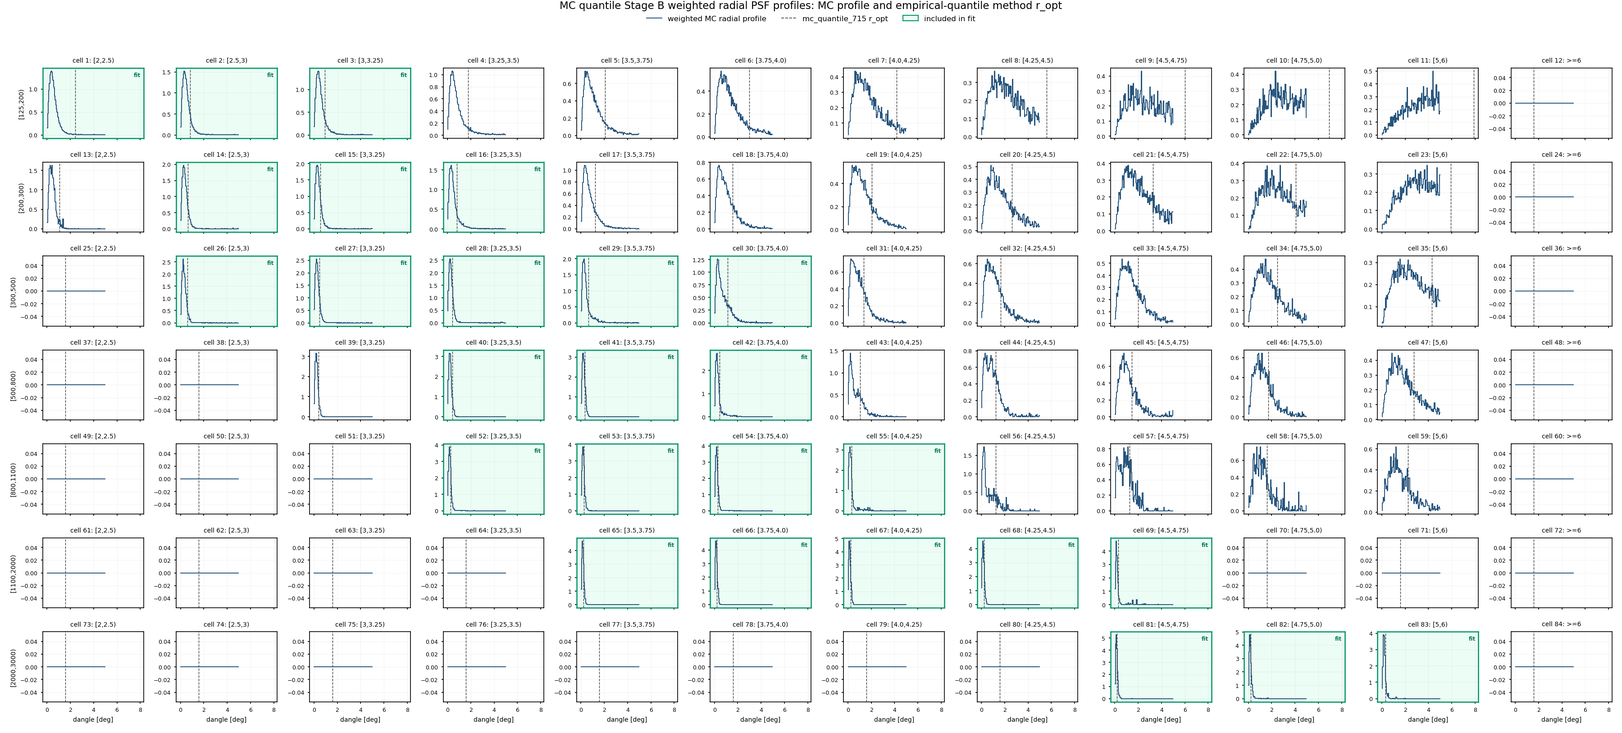
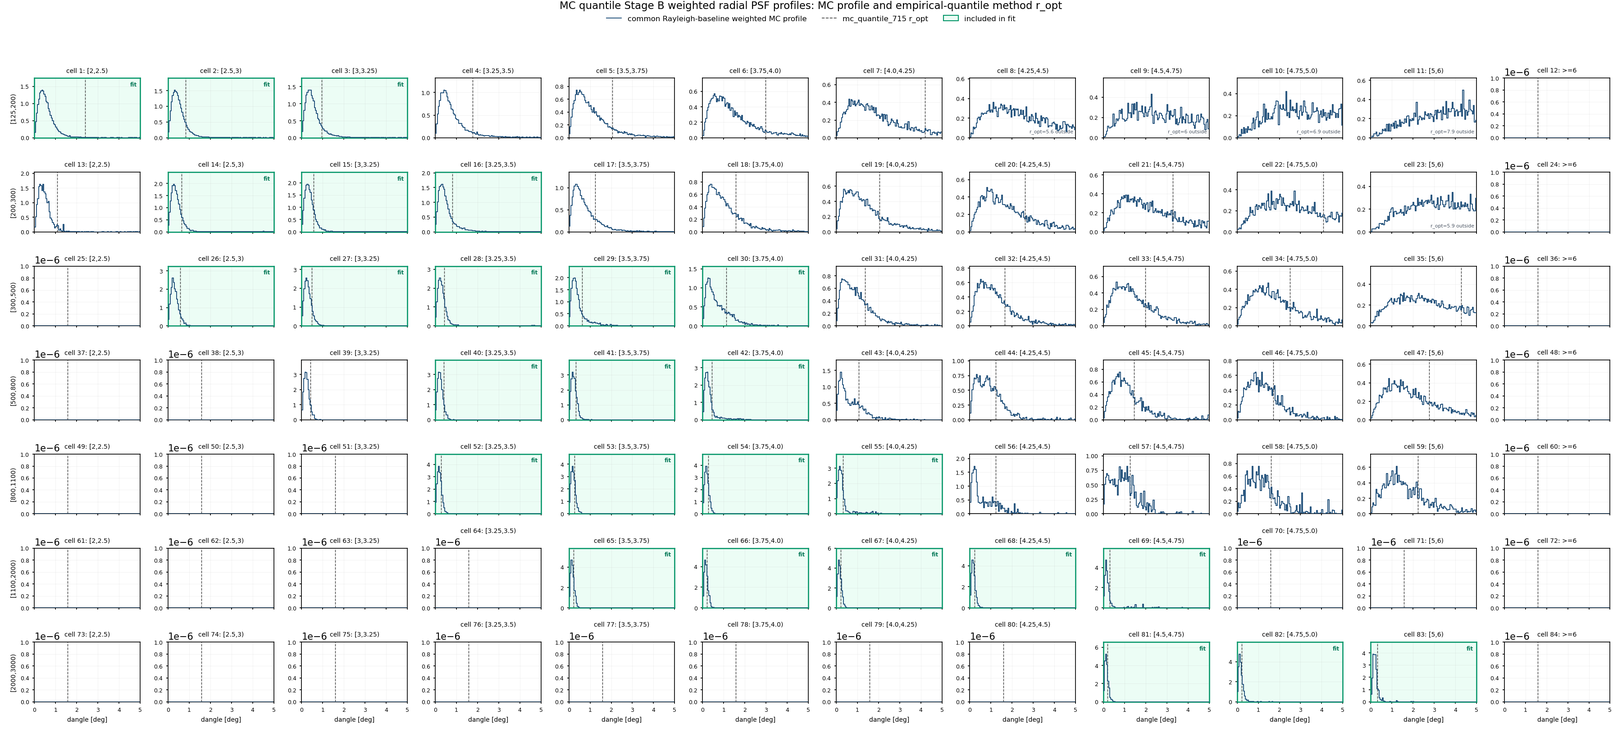
report(apply): align v5 PSF profile grid scales

diff --git a/apply/report/crab_sed_v5_psf_comparison_report.html b/apply/report/crab_sed_v5_psf_comparison_report.html
@@ -360,13 +360,13 @@
   <figure><img src="assets/v5-psf-comparison/v5_psf_radius_shape_scatter.png" alt="PSF radius versus shape scale"><figcaption><strong>PSF radius versus shape scale</strong> The two-1D branch uses sigma_eff = sqrt((sigma_x^2 + sigma_y^2)/2).</figcaption></figure>
 
   <h2>Weighted PSF Profiles</h2>
-  <p>The overlay below uses the Stage B <code>profile_density</code> arrays for the drop4 fit cells. Rayleigh, two-1D Gaussian, MC-quantile, and double-Rayleigh profiles are Crab-theta-weighted MC profiles; observed_data is the pedestal-subtracted observed excess profile for accepted data-PSF cells and the documented fallback profile otherwise. Each overlay profile is normalized by its own peak for shape comparison; dashed vertical lines mark each branch's <code>r_opt</code>. The double-Rayleigh per-method grid also draws the fitted mixture curve.</p>
+  <p>The overlay below uses the Stage B <code>profile_density</code> arrays for the drop4 fit cells. In the five per-method grids, the blue steps are always the exact Rayleigh-baseline Crab-theta-weighted MC profile. Every matching cell uses the same 0-5 deg x range and the same Rayleigh-reference y scale, and the blue steps are drawn above the model curves so they remain visually identical. The observed_data grid adds accepted pedestal-subtracted observed excess profiles in teal; dashed vertical lines mark each branch's <code>r_opt</code>, with out-of-range radii annotated instead of expanding the axes.</p>
   <figure><img src="assets/v5-psf-comparison/v5_psf_weighted_profile_overlay.png" alt="Weighted PSF profile overlay"><figcaption><strong>Weighted PSF profile overlay</strong> Each small panel is one drop4 fit cell, with 5 PSF aperture branches overlaid.</figcaption></figure>
-  <figure><img src="assets/v5-psf-comparison/v5_psf_rayleigh_baseline_weighted_profiles_fit_shaded.png" alt="Rayleigh baseline fit-cell shaded weighted PSF profile grid"><figcaption><strong>Rayleigh baseline fit-cell shaded weighted PSF profile grid</strong> Blue steps show the Stage B Crab-theta-weighted MC radial profile. The orange curve is the Rayleigh radial PDF fit/reference from the same cell&#x27;s Rayleigh sigma. The grey dashed line is Rayleigh r_opt = 1.58 sigma. Green shaded panels are cells included in the final SED fit.</figcaption></figure>
-<figure><img src="assets/v5-psf-comparison/v5_psf_two_1d_gaussian_weighted_profiles_fit_shaded.png" alt="Two 1D Gaussian fit-cell shaded weighted PSF profile grid"><figcaption><strong>Two 1D Gaussian fit-cell shaded weighted PSF profile grid</strong> Blue steps show the Stage B Crab-theta-weighted MC radial profile. The purple curve is the radial PDF induced by the fitted independent x/y Gaussian model; this is not Rayleigh except in the circular sigma_x = sigma_y limit. The grey dashed line is the two-1D circular containment radius solved from the fitted x/y Gaussian sigmas. Green shaded panels are cells included in the final SED fit.</figcaption></figure>
-<figure><img src="assets/v5-psf-comparison/v5_psf_mc_quantile_715_weighted_profiles_fit_shaded.png" alt="MC quantile fit-cell shaded weighted PSF profile grid"><figcaption><strong>MC quantile fit-cell shaded weighted PSF profile grid</strong> Blue steps show the Stage B Crab-theta-weighted MC radial profile. No parametric fit curve is drawn because this branch defines the aperture directly from the weighted empirical quantile. The grey dashed line is the empirical Crab-theta-reweighted mc_dangle quantile radius. Green shaded panels are cells included in the final SED fit.</figcaption></figure>
-<figure><img src="assets/v5-psf-comparison/v5_psf_observed_data_weighted_profiles_fit_shaded.png" alt="Observed data fit-cell shaded weighted PSF profile grid"><figcaption><strong>Observed data fit-cell shaded weighted PSF profile grid</strong> Blue steps show the pedestal-subtracted observed Crab excess radial profile when the cell passes the data-PSF quality gates; fallback or psfborrow cells show the documented fallback display profile. The orange curve is the Rayleigh radial PDF reference from the same cell&#x27;s Rayleigh sigma; it is shown only as a comparison curve, not as the fit used to define the observed-data aperture. The grey dashed line is the observed-Crab radial-profile aperture after annnorm-background and flat-pedestal subtraction, or the documented fallback radius when the observed profile fails quality gates. Green shaded panels are cells included in the final SED fit.</figcaption></figure>
-<figure><img src="assets/v5-psf-comparison/v5_psf_double_rayleigh_mixture_weighted_profiles_fit_shaded.png" alt="Double Rayleigh mixture fit-cell shaded weighted PSF profile grid"><figcaption><strong>Double Rayleigh mixture fit-cell shaded weighted PSF profile grid</strong> Blue steps show the Stage B Crab-theta-weighted MC radial profile. The purple curve is the fitted two-component Rayleigh radial PDF; the grey dashed line is r_opt from the fitted mixture CDF at the Rayleigh-contract target containment. Fallback or psfborrow cells are listed in the diagnostics tables. Green shaded panels are cells included in the final SED fit.</figcaption></figure>
+  <figure><img src="assets/v5-psf-comparison/v5_psf_rayleigh_baseline_weighted_profiles_fit_shaded.png" alt="Rayleigh baseline fit-cell shaded weighted PSF profile grid"><figcaption><strong>Rayleigh baseline fit-cell shaded weighted PSF profile grid</strong> Blue steps are the same Rayleigh-baseline Stage B Crab-theta-weighted MC radial profile in all five grids. Each cell uses the same Rayleigh-baseline 0-5 deg x range and Rayleigh-reference y scale, so model overlays cannot rescale the MC profile. The orange curve is the Rayleigh radial PDF fit/reference from the same cell&#x27;s Rayleigh sigma. The grey dashed line is Rayleigh r_opt = 1.58 sigma. Green shaded panels are cells included in the final SED fit.</figcaption></figure>
+<figure><img src="assets/v5-psf-comparison/v5_psf_two_1d_gaussian_weighted_profiles_fit_shaded.png" alt="Two 1D Gaussian fit-cell shaded weighted PSF profile grid"><figcaption><strong>Two 1D Gaussian fit-cell shaded weighted PSF profile grid</strong> Blue steps are the same Rayleigh-baseline Stage B Crab-theta-weighted MC radial profile in all five grids. Each cell uses the same Rayleigh-baseline 0-5 deg x range and Rayleigh-reference y scale, so model overlays cannot rescale the MC profile. The purple curve is the radial PDF induced by the fitted independent x/y Gaussian model; this is not Rayleigh except in the circular sigma_x = sigma_y limit. The grey dashed line is the two-1D circular containment radius solved from the fitted x/y Gaussian sigmas. Green shaded panels are cells included in the final SED fit.</figcaption></figure>
+<figure><img src="assets/v5-psf-comparison/v5_psf_mc_quantile_715_weighted_profiles_fit_shaded.png" alt="MC quantile fit-cell shaded weighted PSF profile grid"><figcaption><strong>MC quantile fit-cell shaded weighted PSF profile grid</strong> Blue steps are the same Rayleigh-baseline Stage B Crab-theta-weighted MC radial profile in all five grids. Each cell uses the same Rayleigh-baseline 0-5 deg x range and Rayleigh-reference y scale, so model overlays cannot rescale the MC profile. No parametric fit curve is drawn because this branch defines the aperture directly from the weighted empirical quantile. The grey dashed line is the empirical Crab-theta-reweighted mc_dangle quantile radius. Green shaded panels are cells included in the final SED fit.</figcaption></figure>
+<figure><img src="assets/v5-psf-comparison/v5_psf_observed_data_weighted_profiles_fit_shaded.png" alt="Observed data fit-cell shaded weighted PSF profile grid"><figcaption><strong>Observed data fit-cell shaded weighted PSF profile grid</strong> Blue steps are the same Rayleigh-baseline Stage B Crab-theta-weighted MC radial profile in all five grids. Each cell uses the same Rayleigh-baseline 0-5 deg x range and Rayleigh-reference y scale, so model overlays cannot rescale the MC profile. Teal steps additionally show the pedestal-subtracted observed Crab excess radial profile for cells that pass the data-PSF quality gates; they are omitted for fallback cells. The orange curve is the Rayleigh radial PDF reference from the same cell&#x27;s Rayleigh sigma; it is shown only as a comparison curve, not as the fit used to define the observed-data aperture. The grey dashed line is the observed-Crab radial-profile aperture after annnorm-background and flat-pedestal subtraction, or the documented fallback radius when the observed profile fails quality gates. Green shaded panels are cells included in the final SED fit.</figcaption></figure>
+<figure><img src="assets/v5-psf-comparison/v5_psf_double_rayleigh_mixture_weighted_profiles_fit_shaded.png" alt="Double Rayleigh mixture fit-cell shaded weighted PSF profile grid"><figcaption><strong>Double Rayleigh mixture fit-cell shaded weighted PSF profile grid</strong> Blue steps are the same Rayleigh-baseline Stage B Crab-theta-weighted MC radial profile in all five grids. Each cell uses the same Rayleigh-baseline 0-5 deg x range and Rayleigh-reference y scale, so model overlays cannot rescale the MC profile. The purple curve is the fitted two-component Rayleigh radial PDF; the grey dashed line is r_opt from the fitted mixture CDF at the Rayleigh-contract target containment. Fallback or psfborrow cells are listed in the diagnostics tables. Green shaded panels are cells included in the final SED fit.</figcaption></figure>
 
   <h2>Stage F Fit And Pulls</h2>
   <table><thead><tr><th>run</th><th>LogPar phi0</th><th>alpha</th><th>beta</th><th>chi2 / ndof</th><th>chi2/ndof</th><th>max abs pull</th><th>PL phi0</th><th>PL gamma</th></tr></thead><tbody><tr><td>v4 aperture baseline</td><td>2.36784e-12</td><td>2.7615</td><td>0.14536</td><td>117.3 / 23</td><td>5.1</td><td>5.538</td><td>2.12073e-12</td><td>2.632</td></tr>

diff --git a/apply/report/build_v5_psf_comparison_report.py b/apply/report/build_v5_psf_comparison_report.py
@@ -740,29 +740,30 @@ def two1d_radial_pdf_deg(
 
 
 def profile_grid_caption(method: str) -> str:
+    common = (
+        "Blue steps are the same Rayleigh-baseline Stage B Crab-theta-weighted MC radial profile in all five grids. "
+        "Each cell uses the same Rayleigh-baseline 0-5 deg x range and Rayleigh-reference y scale, so model overlays cannot rescale the MC profile. "
+    )
     captions = {
         "rayleigh_baseline": (
-            "Blue steps show the Stage B Crab-theta-weighted MC radial profile. "
-            "The orange curve is the Rayleigh radial PDF fit/reference from the same cell's Rayleigh sigma. "
+            common + "The orange curve is the Rayleigh radial PDF fit/reference from the same cell's Rayleigh sigma. "
             "The grey dashed line is Rayleigh r_opt = 1.58 sigma. "
             "Green shaded panels are cells included in the final SED fit."
         ),
         "two_1d_gaussian": (
-            "Blue steps show the Stage B Crab-theta-weighted MC radial profile. "
-            "The purple curve is the radial PDF induced by the fitted independent x/y Gaussian model; "
+            common + "The purple curve is the radial PDF induced by the fitted independent x/y Gaussian model; "
             "this is not Rayleigh except in the circular sigma_x = sigma_y limit. "
             "The grey dashed line is the two-1D circular containment radius solved from the fitted x/y Gaussian sigmas. "
             "Green shaded panels are cells included in the final SED fit."
         ),
         "mc_quantile_715": (
-            "Blue steps show the Stage B Crab-theta-weighted MC radial profile. "
-            "No parametric fit curve is drawn because this branch defines the aperture directly from the weighted empirical quantile. "
+            common + "No parametric fit curve is drawn because this branch defines the aperture directly from the weighted empirical quantile. "
             "The grey dashed line is the empirical Crab-theta-reweighted mc_dangle quantile radius. "
             "Green shaded panels are cells included in the final SED fit."
         ),
         "observed_data": (
-            "Blue steps show the pedestal-subtracted observed Crab excess radial profile when the cell passes the data-PSF quality gates; "
-            "fallback or psfborrow cells show the documented fallback display profile. "
+            common + "Teal steps additionally show the pedestal-subtracted observed Crab excess radial profile for cells that pass the data-PSF quality gates; "
+            "they are omitted for fallback cells. "
             "The orange curve is the Rayleigh radial PDF reference from the same cell's Rayleigh sigma; it is shown only as a comparison curve, "
             "not as the fit used to define the observed-data aperture. "
             "The grey dashed line is the observed-Crab radial-profile aperture after annnorm-background and flat-pedestal subtraction, "
@@ -770,8 +771,7 @@ def profile_grid_caption(method: str) -> str:
             "Green shaded panels are cells included in the final SED fit."
         ),
         "double_rayleigh_mixture": (
-            "Blue steps show the Stage B Crab-theta-weighted MC radial profile. "
-            "The purple curve is the fitted two-component Rayleigh radial PDF; "
+            common + "The purple curve is the fitted two-component Rayleigh radial PDF; "
             "the grey dashed line is r_opt from the fitted mixture CDF at the Rayleigh-contract target containment. "
             "Fallback or psfborrow cells are listed in the diagnostics tables. "
             "Green shaded panels are cells included in the final SED fit."
@@ -780,12 +780,21 @@ def profile_grid_caption(method: str) -> str:
     return captions[method]
 
 
-def plot_fit_shaded_psf_profile_grid(method: str, payload: Dict[str, object], path: Path) -> bool:
+def plot_fit_shaded_psf_profile_grid(
+    method: str,
+    payload: Dict[str, object],
+    path: Path,
+    *,
+    rayleigh_reference: Optional[Dict[str, object]] = None,
+) -> bool:
     psf = payload.get("psf_npz")
     if not isinstance(psf, dict):
         return False
     required = {"cell_id", "nhit_bin", "predE_bin", "profile_edges_deg", "profile_density"}
     if any(key not in psf for key in required):
+        return False
+    reference = rayleigh_reference if isinstance(rayleigh_reference, dict) else psf
+    if any(key not in reference for key in required):
         return False
 
     cell_ids = np.asarray(psf["cell_id"], dtype=np.int64)
@@ -802,14 +811,33 @@ def plot_fit_shaded_psf_profile_grid(method: str, payload: Dict[str, object], pa
     double_a = np.asarray(psf.get("double_rayleigh_A", np.full(cell_ids.shape, np.nan)), dtype=np.float64)
     double_s1 = np.asarray(psf.get("double_rayleigh_sigma1_deg", np.full(cell_ids.shape, np.nan)), dtype=np.float64)
     double_s2 = np.asarray(psf.get("double_rayleigh_sigma2_deg", np.full(cell_ids.shape, np.nan)), dtype=np.float64)
+    observed_fallback = np.asarray(psf.get("observed_data_fallback", np.ones(cell_ids.shape, dtype=bool)), dtype=bool)
     if cell_ids.size == 0 or profile_density.size == 0:
+        return False
+
+    reference_cell_ids = np.asarray(reference["cell_id"], dtype=np.int64)
+    reference_edges_deg = np.asarray(reference["profile_edges_deg"], dtype=np.float64)
+    reference_density = np.asarray(reference["profile_density"], dtype=np.float64)
+    reference_sigma_rad = np.asarray(
+        reference.get("sigma_rad", np.full(reference_cell_ids.shape, np.nan)),
+        dtype=np.float64,
+    )
+    if (
+        reference_cell_ids.size == 0
+        or reference_density.size == 0
+        or profile_edges_deg.shape != reference_edges_deg.shape
+        or not np.allclose(profile_edges_deg, reference_edges_deg, rtol=0.0, atol=1.0e-12)
+    ):
         return False
 
     fit_ids = fit_cell_ids(payload)
     ordered_nhit = sorted(set(nhit_bins.tolist()), key=interval_key)
     ordered_pred = sorted(set(pred_bins.tolist()), key=interval_key)
     index_by_key = {(nhit, pred): idx for idx, (nhit, pred) in enumerate(zip(nhit_bins, pred_bins))}
-    centers = 0.5 * (profile_edges_deg[:-1] + profile_edges_deg[1:])
+    reference_index_by_cell = {int(cell_id): idx for idx, cell_id in enumerate(reference_cell_ids)}
+    centers = 0.5 * (reference_edges_deg[:-1] + reference_edges_deg[1:])
+    x_min = float(reference_edges_deg[0])
+    x_max = float(reference_edges_deg[-1])
 
     plt = setup_matplotlib()
     from matplotlib.lines import Line2D
@@ -833,6 +861,10 @@ def plot_fit_shaded_psf_profile_grid(method: str, payload: Dict[str, object], pa
                 continue
 
             cell_id = int(cell_ids[idx])
+            reference_idx = reference_index_by_cell.get(cell_id)
+            if reference_idx is None:
+                ax.set_axis_off()
+                continue
             if cell_id in fit_ids:
                 ax.set_facecolor("#ecfdf5")
                 for spine in ax.spines.values():
@@ -850,17 +882,34 @@ def plot_fit_shaded_psf_profile_grid(method: str, payload: Dict[str, object], pa
                     fontweight="bold",
                 )
 
-            density = np.asarray(profile_density[idx], dtype=np.float64)
-            ax.step(centers, density, where="mid", color="#1f4e79", linewidth=0.9)
+            density = np.asarray(reference_density[reference_idx], dtype=np.float64)
+            method_density = np.asarray(profile_density[idx], dtype=np.float64)
             has_profile = bool(np.isfinite(density).any() and np.nansum(density) > 0.0)
+            rayleigh_curve = np.full(centers.shape, np.nan, dtype=np.float64)
+            if (
+                has_profile
+                and reference_idx < reference_sigma_rad.size
+                and np.isfinite(reference_sigma_rad[reference_idx])
+                and reference_sigma_rad[reference_idx] > 0.0
+            ):
+                rayleigh_curve = rayleigh_pdf_deg(centers, float(reference_sigma_rad[reference_idx]))
+
+            if method == "observed_data" and idx < observed_fallback.size and not observed_fallback[idx]:
+                ax.step(
+                    centers,
+                    method_density,
+                    where="mid",
+                    color="#0f766e",
+                    linewidth=0.9,
+                    alpha=0.9,
+                    zorder=2.5,
+                )
             if (
                 method in {"rayleigh_baseline", "observed_data"}
                 and has_profile
-                and idx < sigma_rad.size
-                and np.isfinite(sigma_rad[idx])
-                and sigma_rad[idx] > 0.0
+                and np.isfinite(rayleigh_curve).any()
             ):
-                ax.plot(centers, rayleigh_pdf_deg(centers, float(sigma_rad[idx])), color="#c9501a", linewidth=0.8, alpha=0.9)
+                ax.plot(centers, rayleigh_curve, color="#c9501a", linewidth=1.0, alpha=0.95, zorder=3)
             if (
                 method == "two_1d_gaussian"
                 and has_profile
@@ -883,8 +932,9 @@ def plot_fit_shaded_psf_profile_grid(method: str, payload: Dict[str, object], pa
                         sigma_y_deg=float(sigma_y_deg[idx]),
                     ),
                     color="#7c3aed",
-                    linewidth=0.8,
+                    linewidth=1.0,
                     alpha=0.95,
+                    zorder=3,
                 )
             if (
                 method == "double_rayleigh_mixture"
@@ -907,11 +957,33 @@ def plot_fit_shaded_psf_profile_grid(method: str, payload: Dict[str, object], pa
                         float(double_s2[idx]),
                     ),
                     color="#7e22ce",
-                    linewidth=0.8,
+                    linewidth=1.0,
                     alpha=0.95,
+                    zorder=3,
                 )
             if idx < r_opt.size and np.isfinite(r_opt[idx]):
-                ax.axvline(float(r_opt[idx]), color="#444444", linewidth=0.7, linestyle="--")
+                radius = float(r_opt[idx])
+                if x_min <= radius <= x_max:
+                    ax.axvline(radius, color="#444444", linewidth=0.7, linestyle="--", zorder=2)
+                else:
+                    ax.text(
+                        0.98,
+                        0.06,
+                        f"r_opt={radius:.2g} outside",
+                        transform=ax.transAxes,
+                        ha="right",
+                        va="bottom",
+                        fontsize=5.2,
+                        color="#4b5563",
+                    )
+            ax.step(centers, density, where="mid", color="#1f4e79", linewidth=0.9, zorder=4)
+
+            reference_peak = max(
+                float(np.nanmax(density)) if np.isfinite(density).any() else 0.0,
+                float(np.nanmax(rayleigh_curve)) if np.isfinite(rayleigh_curve).any() else 0.0,
+            )
+            ax.set_xlim(x_min, x_max)
+            ax.set_ylim(0.0, max(1.0e-6, 1.25 * reference_peak))
             ax.set_title(f"cell {cell_id}: {pred}", fontsize=6.7)
             ax.tick_params(labelsize=6, length=2)
             ax.grid(alpha=0.22, linewidth=0.35)
@@ -920,14 +992,11 @@ def plot_fit_shaded_psf_profile_grid(method: str, payload: Dict[str, object], pa
             if i == len(ordered_nhit) - 1:
                 ax.set_xlabel("dangle [deg]", fontsize=6.7)
 
-    profile_label = (
-        "pedestal-subtracted observed excess profile / fallback profile"
-        if method == "observed_data"
-        else "weighted MC radial profile"
-    )
     handles = [
-        Line2D([0], [0], color="#1f4e79", linewidth=0.9, label=profile_label),
+        Line2D([0], [0], color="#1f4e79", linewidth=0.9, label="common Rayleigh-baseline weighted MC profile"),
     ]
+    if method == "observed_data":
+        handles.append(Line2D([0], [0], color="#0f766e", linewidth=0.9, label="accepted observed excess profile"))
     if method in {"rayleigh_baseline", "observed_data"}:
         rayleigh_label = "Rayleigh radial PDF reference" if method == "observed_data" else "Rayleigh radial PDF"
         handles.append(Line2D([0], [0], color="#c9501a", linewidth=0.9, label=rayleigh_label))
@@ -946,7 +1015,7 @@ def plot_fit_shaded_psf_profile_grid(method: str, payload: Dict[str, object], pa
         "rayleigh_baseline": "MC profile, Rayleigh radial PDF, method r_opt",
         "two_1d_gaussian": "MC profile, two-1D induced radial PDF, method r_opt",
         "mc_quantile_715": "MC profile and empirical-quantile method r_opt",
-        "observed_data": "observed/fallback profile, Rayleigh radial PDF reference, method r_opt",
+        "observed_data": "common MC profile, observed profile, Rayleigh reference, method r_opt",
         "double_rayleigh_mixture": "MC profile, fitted double-Rayleigh mixture PDF, method r_opt",
     }[method]
     fig.suptitle(
@@ -1894,8 +1963,14 @@ def main() -> None:
     plot_observed_data_radius_comparison(runs, ASSET_DIR / "v5_psf_observed_data_radius_comparison.png")
     plot_shape_scatter(runs, ASSET_DIR / "v5_psf_radius_shape_scatter.png")
     plot_weighted_psf_profile_overlay(runs, ASSET_DIR / "v5_psf_weighted_profile_overlay.png")
+    rayleigh_reference = runs.get("rayleigh_baseline", {}).get("psf_npz")
     for method, payload in runs.items():
-        plot_fit_shaded_psf_profile_grid(method, payload, ASSET_DIR / f"v5_psf_{method}_weighted_profiles_fit_shaded.png")
+        plot_fit_shaded_psf_profile_grid(
+            method,
+            payload,
+            ASSET_DIR / f"v5_psf_{method}_weighted_profiles_fit_shaded.png",
+            rayleigh_reference=rayleigh_reference if isinstance(rayleigh_reference, dict) else None,
+        )
     plot_pull_grid(runs, ASSET_DIR / "v5_psf_cell_pull_grid.png")
     plot_sed_overlay(runs, ASSET_DIR / "v5_psf_sed_overlay.png")
     plot_sed_flux_ratio_to_v4(runs, ASSET_DIR / "v5_psf_sed_flux_ratio_to_v4.png")
@@ -1932,9 +2007,10 @@ def main() -> None:
             "weighted_psf_profiles": {
                 "overlay_figure": str(ASSET_DIR / "v5_psf_weighted_profile_overlay.png"),
                 "profile_source": (
-                    "Stage B profile_density arrays, normalized by per-cell peak for display; "
-                    "observed_data uses pedestal-subtracted observed excess profiles for accepted data-PSF cells "
-                    "and fallback/borrowed profiles for fallback cells; double_rayleigh_mixture overlays the fitted mixture PDF in its fit-shaded grid."
+                    "All five fit-shaded grids use the exact Rayleigh-baseline Stage B profile_density as the common blue MC reference, "
+                    "with identical 0-5 deg x limits and per-cell Rayleigh-reference y limits. "
+                    "The observed_data grid overlays accepted pedestal-subtracted observed excess profiles in teal, "
+                    "and double_rayleigh_mixture overlays the fitted mixture PDF."
                 ),
                 "fit_shaded_grids": {
                     method: str(ASSET_DIR / f"v5_psf_{method}_weighted_profiles_fit_shaded.png")
@@ -2030,7 +2106,7 @@ def main() -> None:
   {figure(ASSET_DIR / "v5_psf_radius_shape_scatter.png", "PSF radius versus shape scale", "The two-1D branch uses sigma_eff = sqrt((sigma_x^2 + sigma_y^2)/2).")}
 
   <h2>Weighted PSF Profiles</h2>
-  <p>The overlay below uses the Stage B <code>profile_density</code> arrays for the drop4 fit cells. Rayleigh, two-1D Gaussian, MC-quantile, and double-Rayleigh profiles are Crab-theta-weighted MC profiles; observed_data is the pedestal-subtracted observed excess profile for accepted data-PSF cells and the documented fallback profile otherwise. Each overlay profile is normalized by its own peak for shape comparison; dashed vertical lines mark each branch's <code>r_opt</code>. The double-Rayleigh per-method grid also draws the fitted mixture curve.</p>
+  <p>The overlay below uses the Stage B <code>profile_density</code> arrays for the drop4 fit cells. In the five per-method grids, the blue steps are always the exact Rayleigh-baseline Crab-theta-weighted MC profile. Every matching cell uses the same 0-5 deg x range and the same Rayleigh-reference y scale, and the blue steps are drawn above the model curves so they remain visually identical. The observed_data grid adds accepted pedestal-subtracted observed excess profiles in teal; dashed vertical lines mark each branch's <code>r_opt</code>, with out-of-range radii annotated instead of expanding the axes.</p>
   {figure(ASSET_DIR / "v5_psf_weighted_profile_overlay.png", "Weighted PSF profile overlay", f"Each small panel is one drop4 fit cell, with {len(METHODS)} PSF aperture branches overlaid.")}
   {psf_profile_grid_figures(runs)}
 
